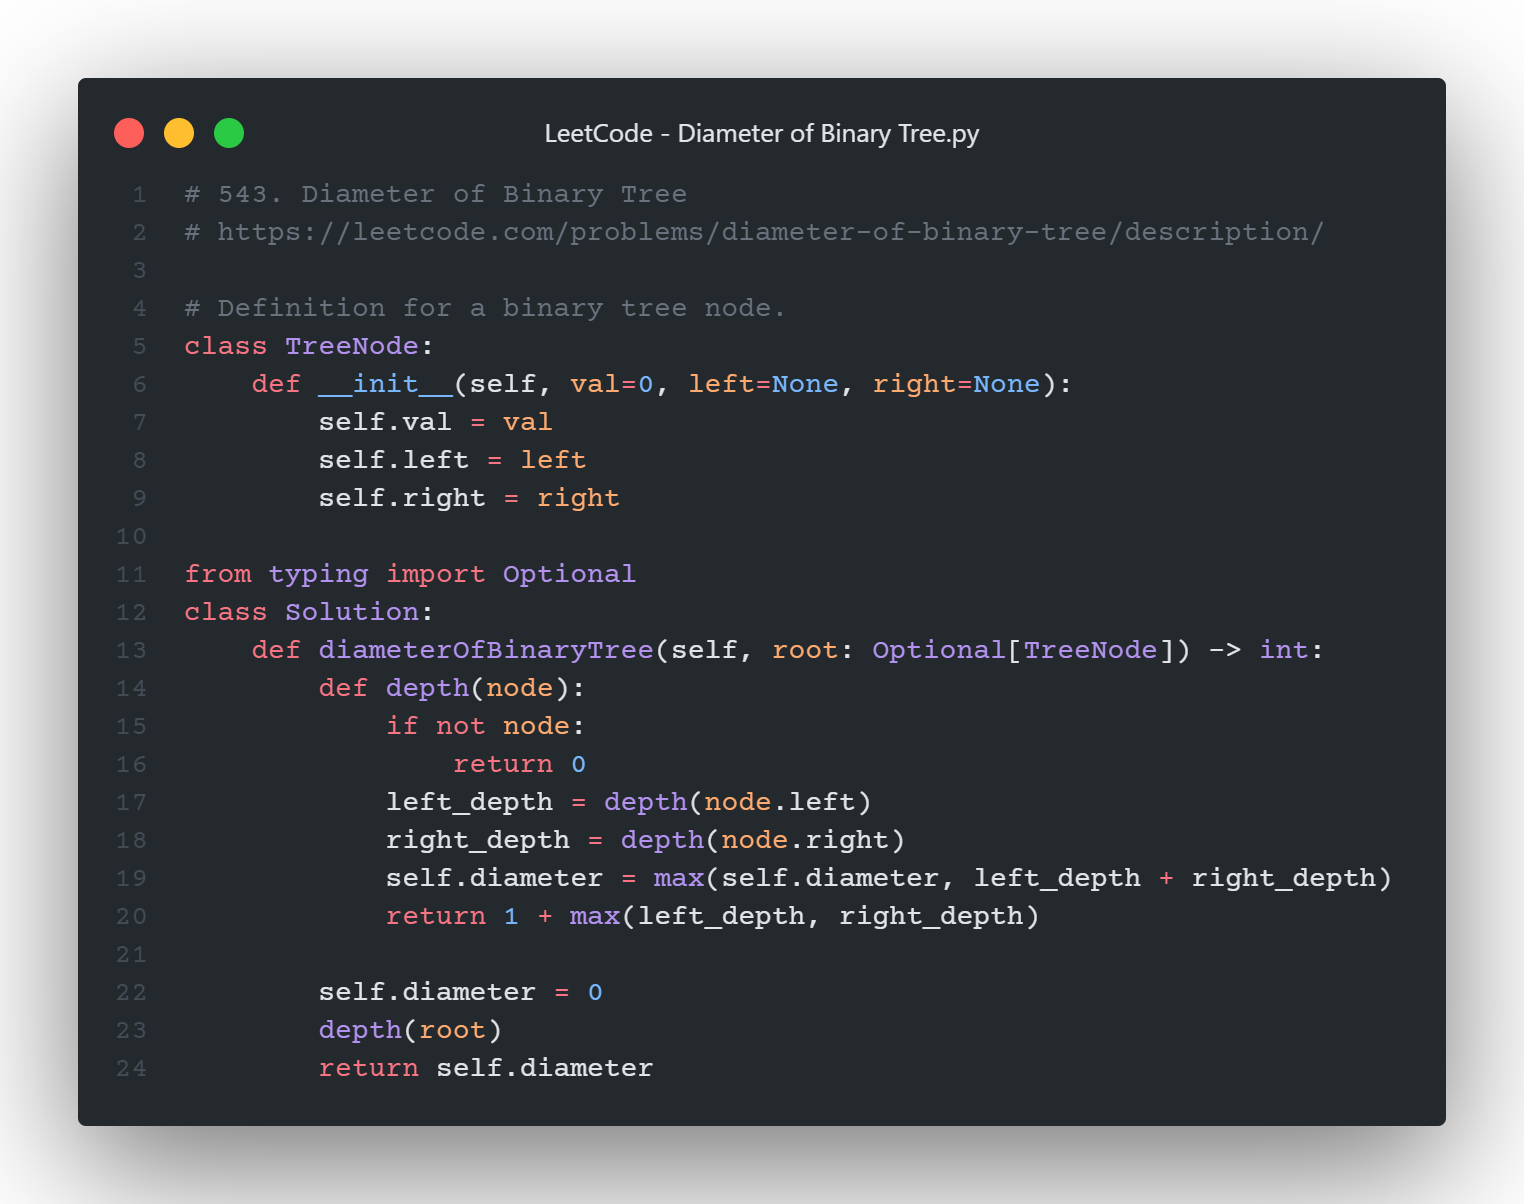
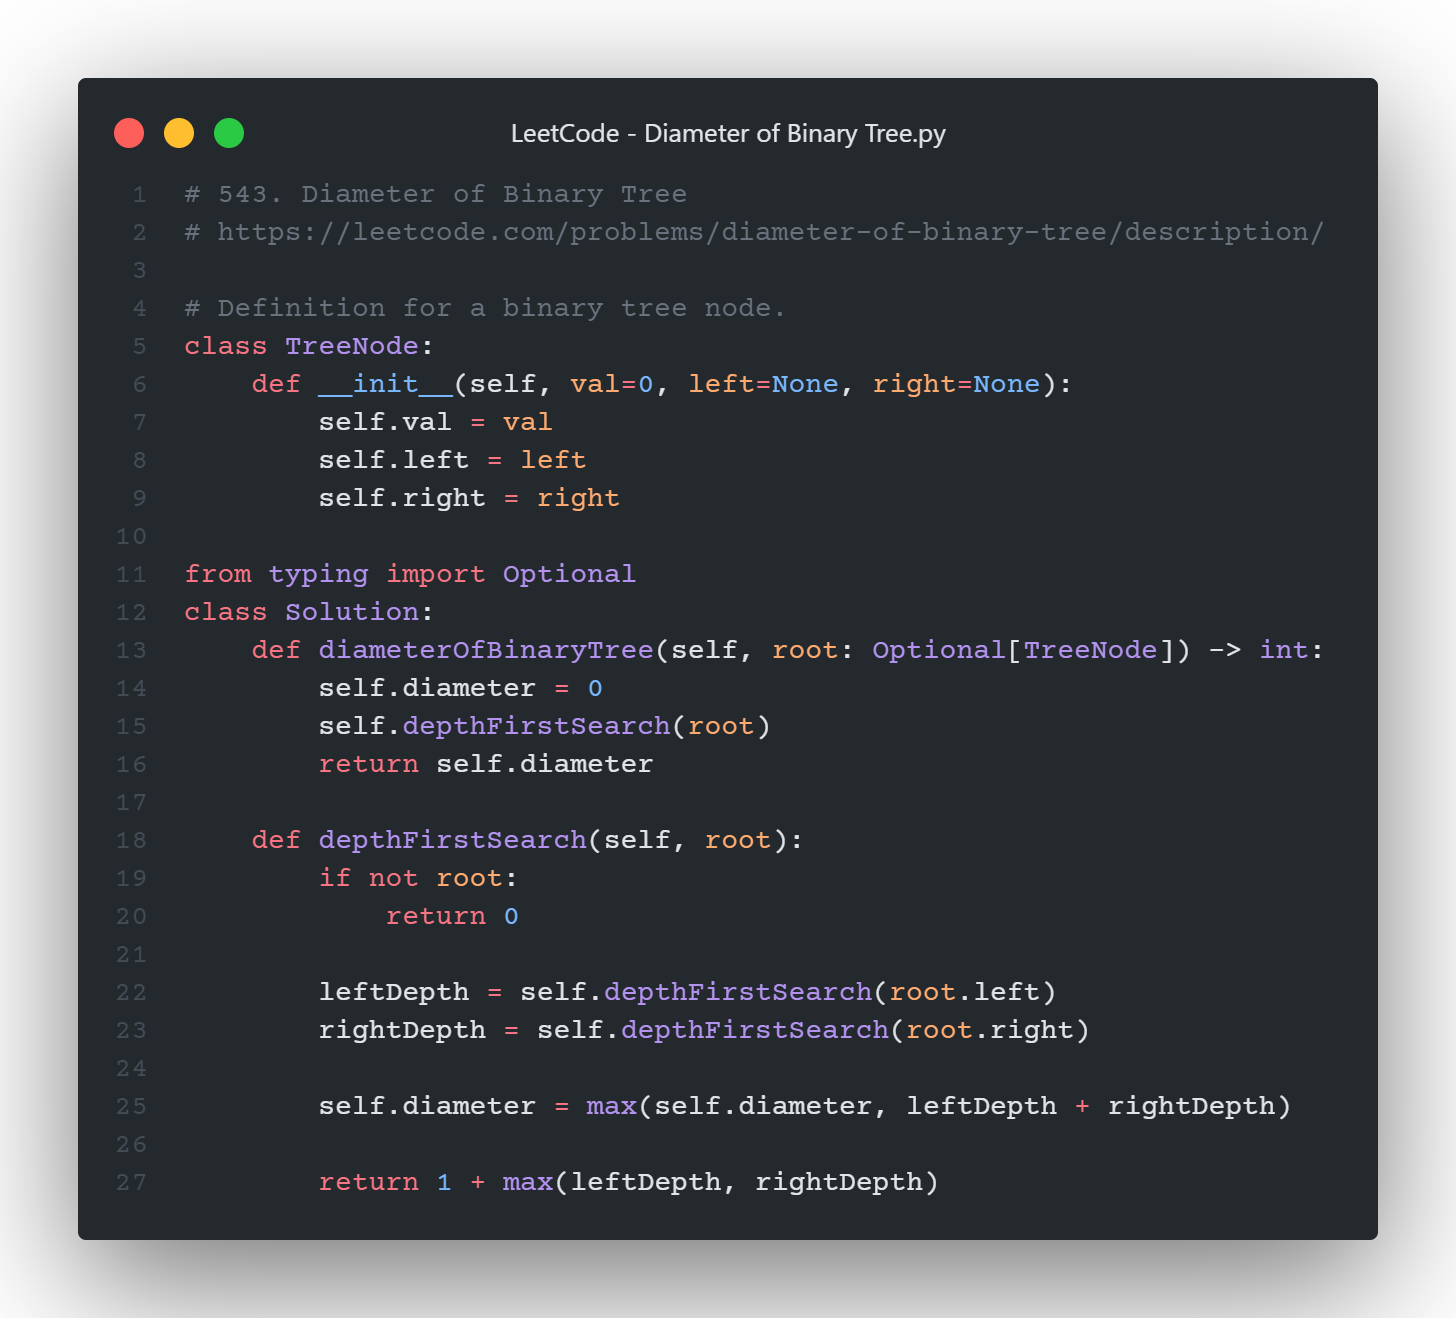
Update

diff --git a/Easy/Diameter of Binary Tree.py b/Easy/Diameter of Binary Tree.py
@@ -11,14 +11,17 @@ class TreeNode:
 from typing import Optional
 class Solution:
     def diameterOfBinaryTree(self, root: Optional[TreeNode]) -> int:
-        def depth(node):
-            if not node:
-                return 0
-            left_depth = depth(node.left)
-            right_depth = depth(node.right)
-            self.diameter = max(self.diameter, left_depth + right_depth)
-            return 1 + max(left_depth, right_depth)
-
         self.diameter = 0
-        depth(root)
+        self.depthFirstSearch(root)
         return self.diameter
+
+    def depthFirstSearch(self, root):
+        if not root:
+            return 0
+
+        leftDepth = self.depthFirstSearch(root.left)
+        rightDepth = self.depthFirstSearch(root.right)
+
+        self.diameter = max(self.diameter, leftDepth + rightDepth)
+
+        return 1 + max(leftDepth, rightDepth)
